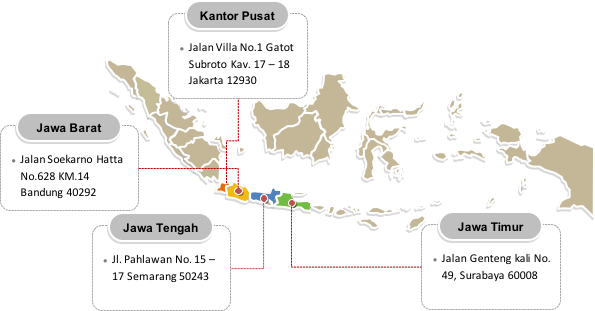
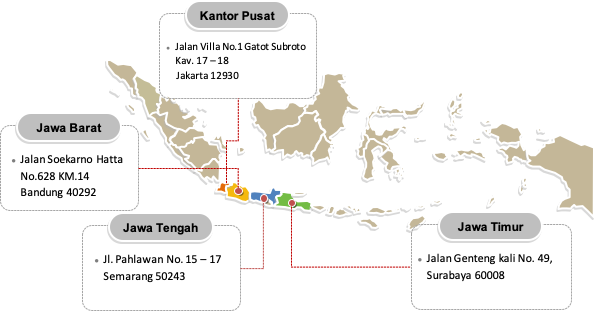
new update

diff --git a/client/src/pages/Cabang.js b/client/src/pages/Cabang.js
@@ -22,58 +22,43 @@ export default () => {
       <Navigation />
       <Container>
         <div style={{ marginTop: 20 }}>
-          <p style={{ textAlign: "center", fontWeight: "bold", fontSize: 30 }}>
-            Kantor Cabang YKP3JS
-          </p>
+          <p style={{ textAlign: "center", fontWeight: "bold", fontSize: 30 }}>Kantor YKP3JS</p>
         </div>
         <div style={{ display: "flex", justifyContent: "center", marginTop: 40, marginBottom: 20 }}>
           <Image src={Map} rounded style={{ height: 400, width: 1000 }} />
         </div>
-        <div>
+        <div style={{ marginBottom: 30 }}>
           <Row>
             <Col>
               <p style={{ fontWeight: "bold", fontSize: 20, marginBottom: 5 }}>KANTOR PUSAT</p>
-              <p style={{ marginBottom: 0, fontSize: 13 }}>WISMA PERHUTANI</p>
-              <p style={{ marginBottom: 0, fontSize: 13 }}>
-                JALAN VILLA NO.1 GATOT SOBROTO KAV. 17 – 18 JAKARTA SELATAN
-              </p>
-              <p style={{ marginBottom: 0, fontSize: 13 }}>
-                TLP. 62.21.5252983, FAC. 62.21.5252983
-              </p>
-              <p>Email : yayasanjatisejahtera@yahoo.co.id</p>
+              <p style={{ marginBottom: 0, fontSize: 13 }}>D/A WISMA PERHUTANI</p>
+              <p style={{ marginBottom: 0, fontSize: 13 }}>JALAN VILLA NO.1 GATOT SOBROTO</p>
+              <p style={{ marginBottom: 0, fontSize: 13 }}>KAV. 17 – 18 JAKARTA SELATAN</p>
+              <p style={{ marginBottom: 0, fontSize: 13 }}>TLP. 62.21.5252983, FAC.</p>
+              <p style={{ marginBottom: 0, fontSize: 13 }}>62.21.5252983</p>
+              <p style={{ marginBottom: 0, fontSize: 13 }}>Email :</p>
+              <p style={{ marginBottom: 0, fontSize: 13 }}>yayasanjatisejahtera@yahoo.co.id</p>
             </Col>
           </Row>
         </div>
         <div style={{ marginBottom: 50 }}>
           <Row>
             <Col>
-              <p style={{ fontWeight: "bold", fontSize: 15, marginBottom: 5 }}>
-                KANTOR PERWAKILAN YKP3.JS JAWA BARAT
-              </p>
-              <p style={{ marginBottom: 0, fontSize: 13 }}>KANTOR PERHUTANI</p>
-              <p style={{ marginBottom: 0, fontSize: 13 }}>
-                JL.SOEKARNO HATTA NO. 628 KM.14 BANDUNG 40292.
-              </p>
+              <p style={{ fontWeight: "bold", fontSize: 15, marginBottom: 5 }}>KANTOR PERWAKILAN YKP3.JS JAWA BARAT</p>
+              <p style={{ marginBottom: 0, fontSize: 13 }}>D/A KANTOR PERHUTANI</p>
+              <p style={{ marginBottom: 0, fontSize: 13 }}>JL.SOEKARNO HATTA NO. 628 KM.14 BANDUNG 40292.</p>
               <p style={{ marginBottom: 0, fontSize: 13 }}>TLP. 62.22. 7802792 </p>
             </Col>
             <Col>
-              <p style={{ fontWeight: "bold", fontSize: 15, marginBottom: 5 }}>
-                KANTOR PERWAKILAN YKP3.JS JAWA TENGAH
-              </p>
-              <p style={{ marginBottom: 0, fontSize: 13 }}>KANTOR PERHUTANI</p>
-              <p style={{ marginBottom: 0, fontSize: 13 }}>
-                JL.PAHLAWAN NO. 15 - 17 SEMARANG 50243
-              </p>
+              <p style={{ fontWeight: "bold", fontSize: 15, marginBottom: 5 }}>KANTOR PERWAKILAN YKP3.JS JAWA TENGAH</p>
+              <p style={{ marginBottom: 0, fontSize: 13 }}>D/A KANTOR PERHUTANI</p>
+              <p style={{ marginBottom: 0, fontSize: 13 }}>JL.PAHLAWAN NO. 15 - 17 SEMARANG 50243</p>
               <p style={{ marginBottom: 0, fontSize: 13 }}>TLP. 62.24 8413631</p>
             </Col>
             <Col>
-              <p style={{ fontWeight: "bold", fontSize: 15, marginBottom: 5 }}>
-                KANTOR PERWAKILAN YKP3.JS JAWA TIMUR
-              </p>
-              <p style={{ marginBottom: 0, fontSize: 13 }}>KANTOR PERHUTANI</p>
-              <p style={{ marginBottom: 0, fontSize: 13 }}>
-                JL.GENTENG KALI NO. 49 SURABAYA 60008.
-              </p>
+              <p style={{ fontWeight: "bold", fontSize: 15, marginBottom: 5 }}>KANTOR PERWAKILAN YKP3.JS JAWA TIMUR</p>
+              <p style={{ marginBottom: 0, fontSize: 13 }}>D/A KANTOR PERHUTANI</p>
+              <p style={{ marginBottom: 0, fontSize: 13 }}>JL.GENTENG KALI NO. 49 SURABAYA 60008.</p>
               <p style={{ marginBottom: 0, fontSize: 13 }}>TLP. 62.31 5343881</p>
             </Col>
           </Row>

diff --git a/client/src/pages/Pendidikan.js b/client/src/pages/Pendidikan.js
@@ -37,8 +37,8 @@ export default () => {
           <div style={{ marginTop: 20 }}>
             <p style={{ fontWeight: "bold", marginBottom: 0 }}>Beberapa kegiatan dibidang pendidikan yang diselenggarakan oleh Yayasan di antaranya:</p>
             <ol style={{ marginLeft: -20 }}>
-              <li>Memberikan bantuan biaya pendidikan kepada putra/putri karyawan dan pensiunan peruma perhutani yang berprestasi.</li>
-              <li>mengelola Wisma Putra Rimba untuk membantu menyediakan tempat tinggal bagi putra/putri karyawan/pensiunan Perum Perhutani yang melanjutkan pendidikan di Surabaya.</li>
+              <li>Memberikan bantuan pendidikan kepada putra/putri karyawan dan pensiunan Perum Perhutani yang berprestasi.</li>
+              <li>Mengelola Wisma Putra Rimba untuk membantu menyediakan tempat tinggal bagi putra/putri karyawan/pensiunan Perum Perhutani yang melanjutkan pendidikan di Surabaya.</li>
               <li>Membantu pengembangan dan pembinaan lembaga Pendidikan dilingkup Perum Perhutani.</li>
               <li>Menyelenggarakan Pendidikan Non-formal (TK/TPA/PAUD)</li>
             </ol>
@@ -57,22 +57,33 @@ export default () => {
               <table>
                 <tr>
                   <td>Tingkat SD</td>
+                  <td>{" - "}</td>
                   <td>Rp. 50.000,- /bln.</td>
                 </tr>
                 <tr>
                   <td>Tingkat SLTP</td>
+                  <td>{" - "}</td>
                   <td>Rp . 60.000,-/bln.</td>
                 </tr>
                 <tr>
                   <td>Tingkat SLTA</td>
+                  <td>{" - "}</td>
                   <td>Rp. 75.000,-/bln.</td>
                 </tr>
                 <tr>
                   <td>Perguruan Tinggi</td>
+                  <td>{" - "}</td>
                   <td>Rp 100.000,/bln.</td>
                 </tr>
               </table>
             </ul>
+            <div style={{ marginTop: 20 }}>
+              <p style={{ fontWeight: "bold", marginBottom: 0 }}>Realisasi</p>
+              <ul style={{ marginLeft: -10, marginTop: 0 }}>
+                <li>Realisasi Penyaluran Dana Bantuan Pendidikan sd Juni 2020 sebesar Rp. 3,936 M</li>
+                <li>Jumlah Penerima Bantuan Pendidikan sd Juni 2020 Sebanyak 13.268 Siswa</li>
+              </ul>
+            </div>
           </div>
         </Container>
       </div>

diff --git a/client/src/pages/Perumahan.js b/client/src/pages/Perumahan.js
@@ -29,19 +29,16 @@ export default () => {
         </div>
         <div style={{ marginTop: 20 }}>
           <p>
-            Yayasan mengelola dana program pemilikan rumah bagi karyawan Perum Perhutani yang masih
-            aktif khususnya Karyawan Golongan I dan Golongan II. Penyaluran dana bantuan pemilikan
-            rumah ini diberikan secara selektif di seluruh Wilayah kerja Perum Perhutani yaitu di
-            Jawa Timur, Jawa Tengah, serta Jawa Barat dan Banten.
-            <br style={{ marginBottom: 10 }} />
-            Bantuan ini diberikan secara regular setiap dua tahun, dan diberikan dalam bentuk
-            pinjaman tanpa bunga yang pengembaliannya akan diangsur oleh karyawan dalam waktu lima
-            tahun.
-            <br style={{ marginBottom: 10 }} />
-            Pada saat Karyawan memasuki masa pensiun, atau meninggal sebelum waktu pensiun, akan
-            menerima pengembalian Uang Perumahan yang nilainya ditentukan berdasar Golongan saat
-            pensiun.
+            Yayasan mengelola dana program pemilikan rumah bagi karyawan Perum Perhutani yang masih aktif khususnya Karyawan Golongan I dan Golongan II. Penyaluran dana bantuan pemilikan rumah ini
+            diberikan secara selektif di seluruh Wilayah kerja Perum Perhutani yaitu di Jawa Timur, Jawa Tengah, serta Jawa Barat dan Banten. Bantuan ini diberikan secara regular setiap dua tahun, dan
+            diberikan dalam bentuk pinjaman tanpa bunga yang pengembaliannya akan diangsur oleh karyawan dalam waktu lima tahun. Pada saat Karyawan memasuki masa pensiun, atau meninggal sebelum waktu
+            pensiun, akan menerima pengembalian Iuran Perumahan yang nilai nya sebesar seluruh akumulasi iuran pemilikan rumah yang telah disetorkan kepada yayasan (Uang nya di ganti iuran.
           </p>
+
+          <ol style={{ marginLeft: -20, marginTop: 0 }}>
+            <li>Realisasi Penyaluran Dana Bantuan Pendidikan sd Juni 2020 sebesar Rp. 3,936 M</li>
+            <li>Jumlah Penerima Bantuan Pendidikan sd Juni 2020 Sebanyak 13.268 Siswa</li>
+          </ol>
         </div>
       </Container>
       <Footer />

diff --git a/client/src/pages/Kesehatan.js b/client/src/pages/Kesehatan.js
@@ -36,7 +36,7 @@ export default () => {
           <Image src={Kesehatan} rounded style={{ height: 400, width: 600 }} />
         </div>
         <div style={{ marginTop: 20 }}>
-          <p>
+          <p style={{ textAlign: "justify" }}>
             Yayasan mengelola dana program kesehatan yang disalurkan kepada seluruh pensiunan Perum Perhutani dalam bentuk program kesehatan sesuai dengan ketentuan.yang berlaku.
             <br style={{ marginBottom: 10 }} />
             Ketentuan tersebut diantaranya memenuhi batasan kepesertaan dan jenis perawatan yang ditanggung. Batasan kepesertaan program kesehatan adalah bagi pensiunan direksi dan pegawai Perum
@@ -50,7 +50,7 @@ export default () => {
         </div>
         <div data-aos="fade-up" style={{ marginTop: 20 }}>
           <p style={{ fontWeight: "bold", marginBottom: 10 }}>MASA PERLINDUNGAN BANTUAN KESEHATAN</p>
-          <p>
+          <p style={{ textAlign: "justify" }}>
             Bagi Karyawan yang pensiun usia 56 tahun (normal) atau diatas usia 56 tahun diberikan masa perlindungan bantuan kesehatan selama 15 tahun.
             <br style={{ marginBottom: 10 }} />
             Bagi Karyawan yang pensiun dipercepat karena Meninggal Dunia / Mengundurkan Diri / Diberhentikan / Catat Total, diberikan masa perlindungan Bantuan Kesehatan sesuai masa iuran yang
@@ -97,9 +97,10 @@ export default () => {
           </ul>
         </div>
         <div data-aos="flip-left" style={{ marginTop: 20 }}>
-          <p>Mekanisme Pembayaran</p>
+          <p>MEKANISME PEMBAYARAN</p>
           <ul style={{ marginLeft: -10, marginTop: -10 }}>
-            <li>Dengan sistem Restitusi Paling Lama 14 hari sejak pengajuan 3 bulan masa tunda kwitansi sejak permohonan.</li>
+            <li>Dengan sistem Restitusi Paling Lama 14 hari sejak pengajuan.</li>
+            <li>3 bulan masa tunda kwitansi sejak permohonan.</li>
           </ul>
         </div>
       </Container>
